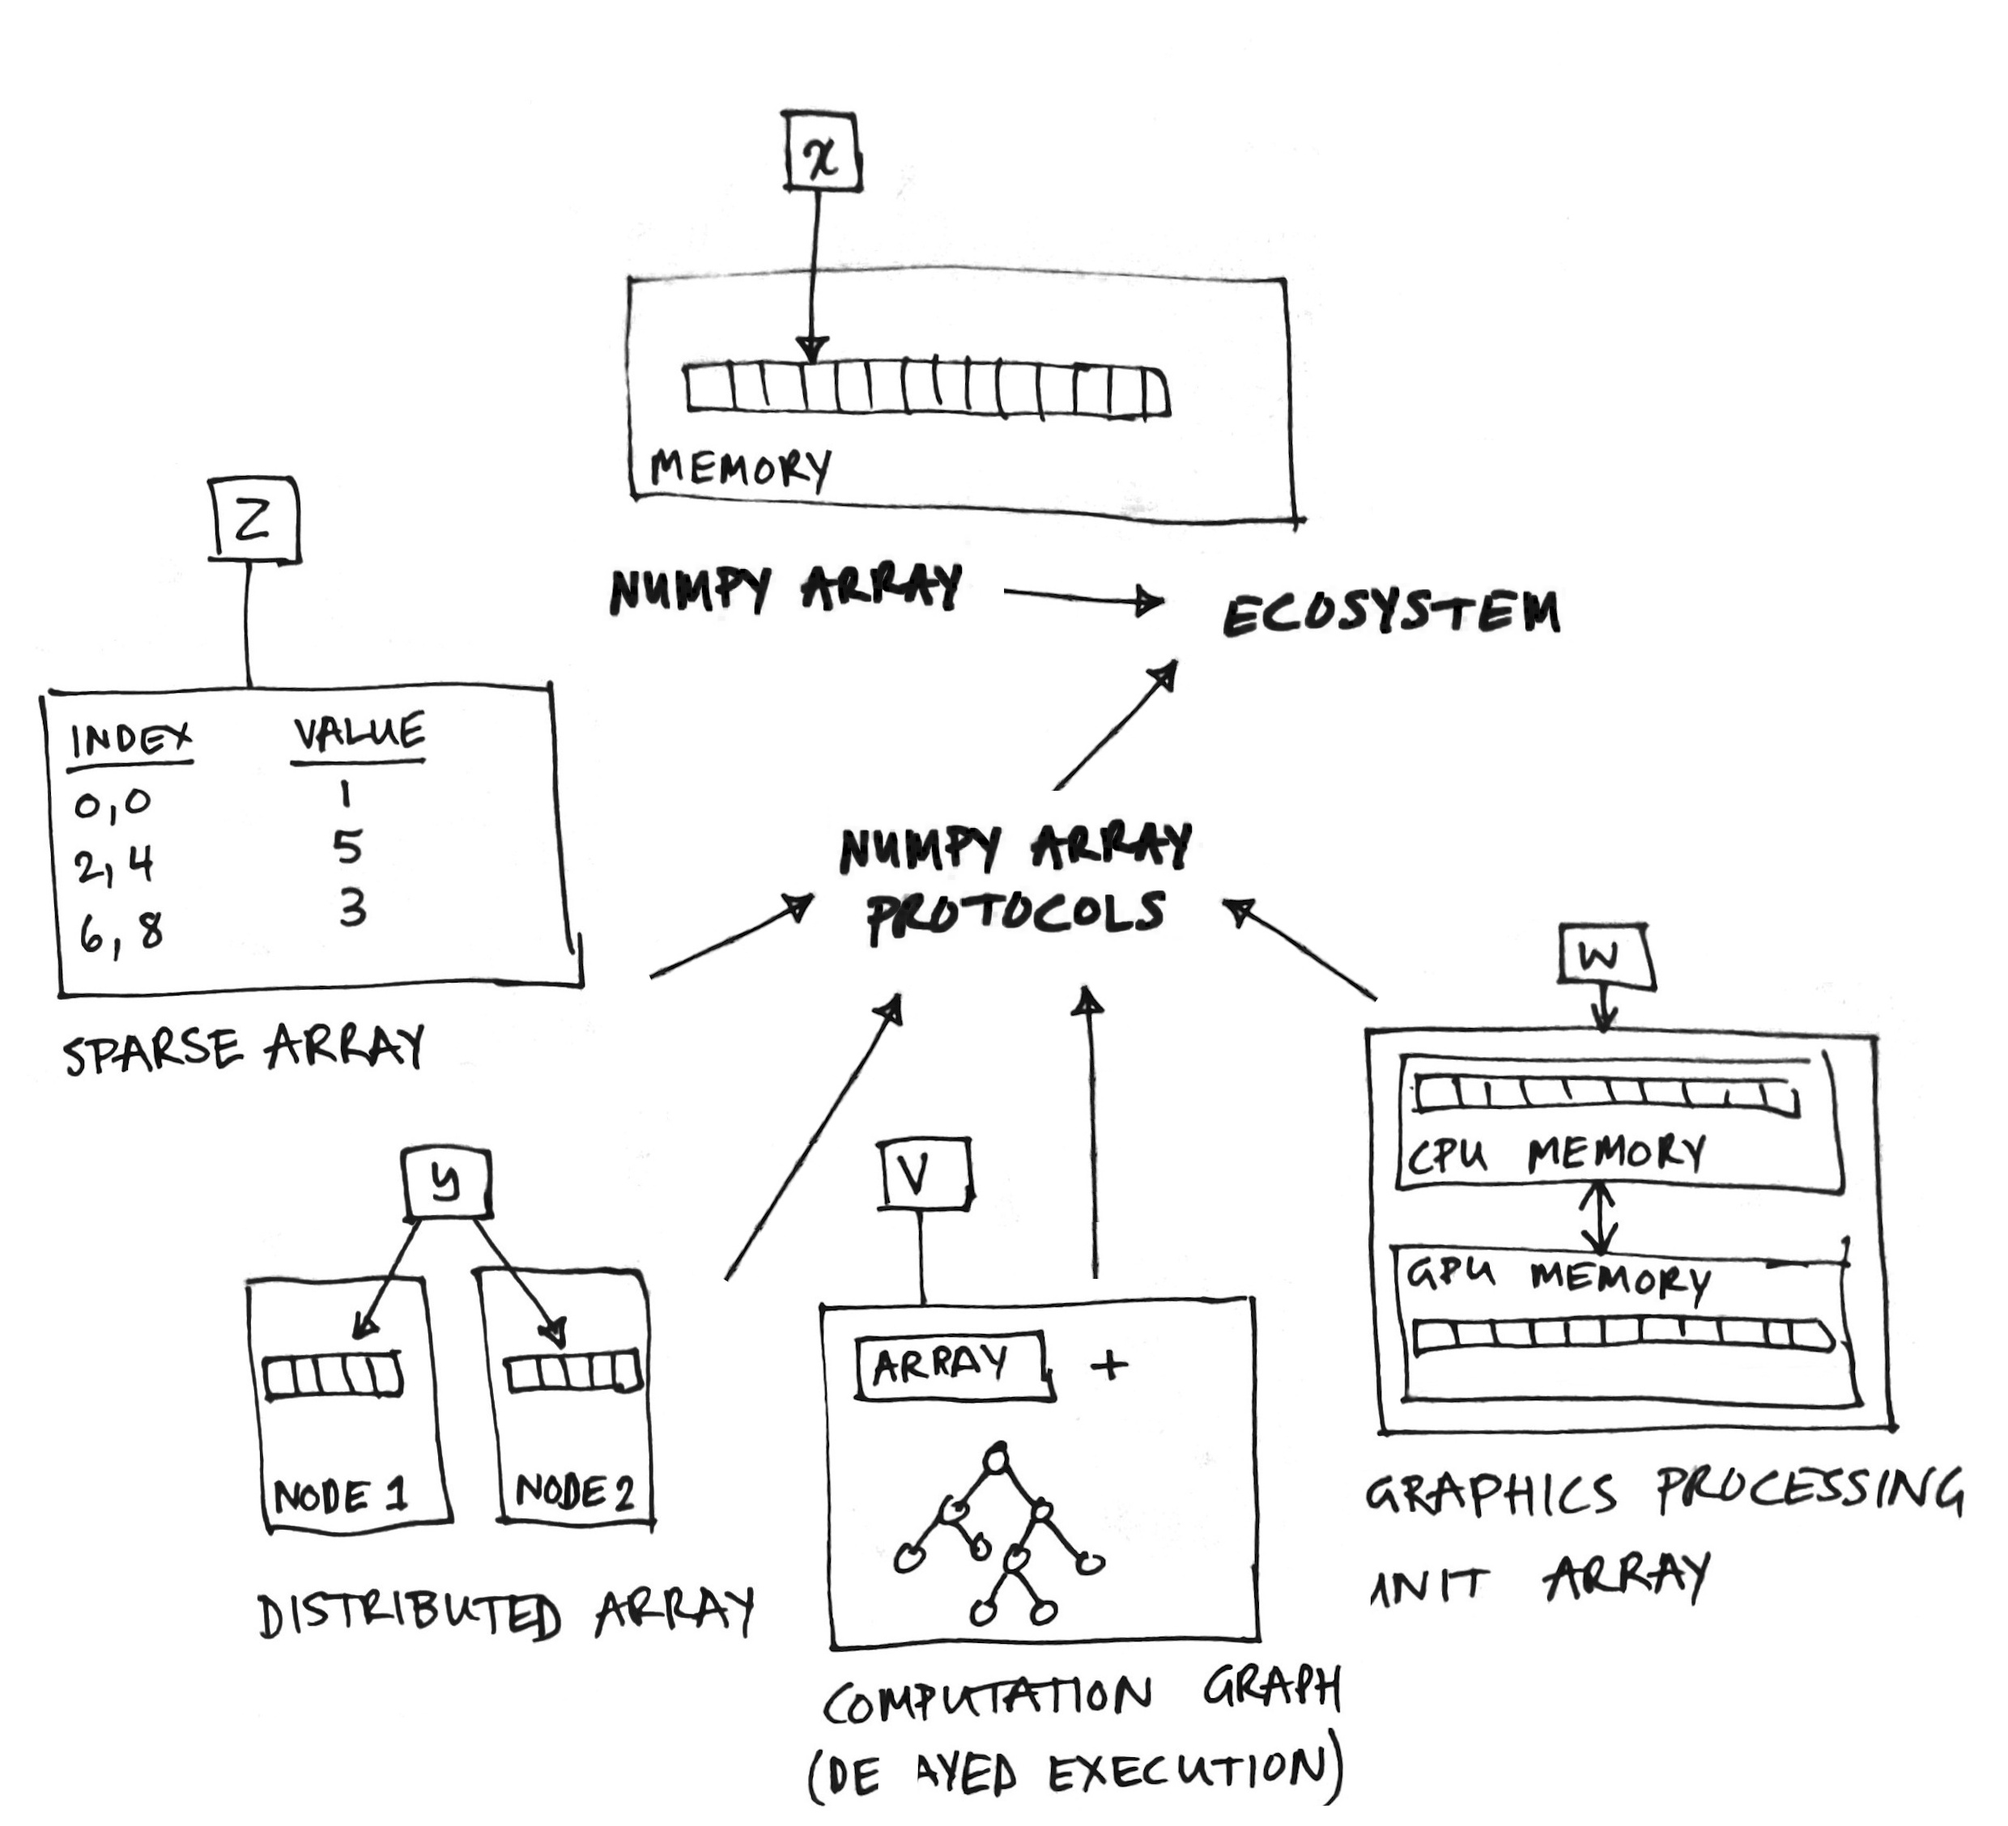
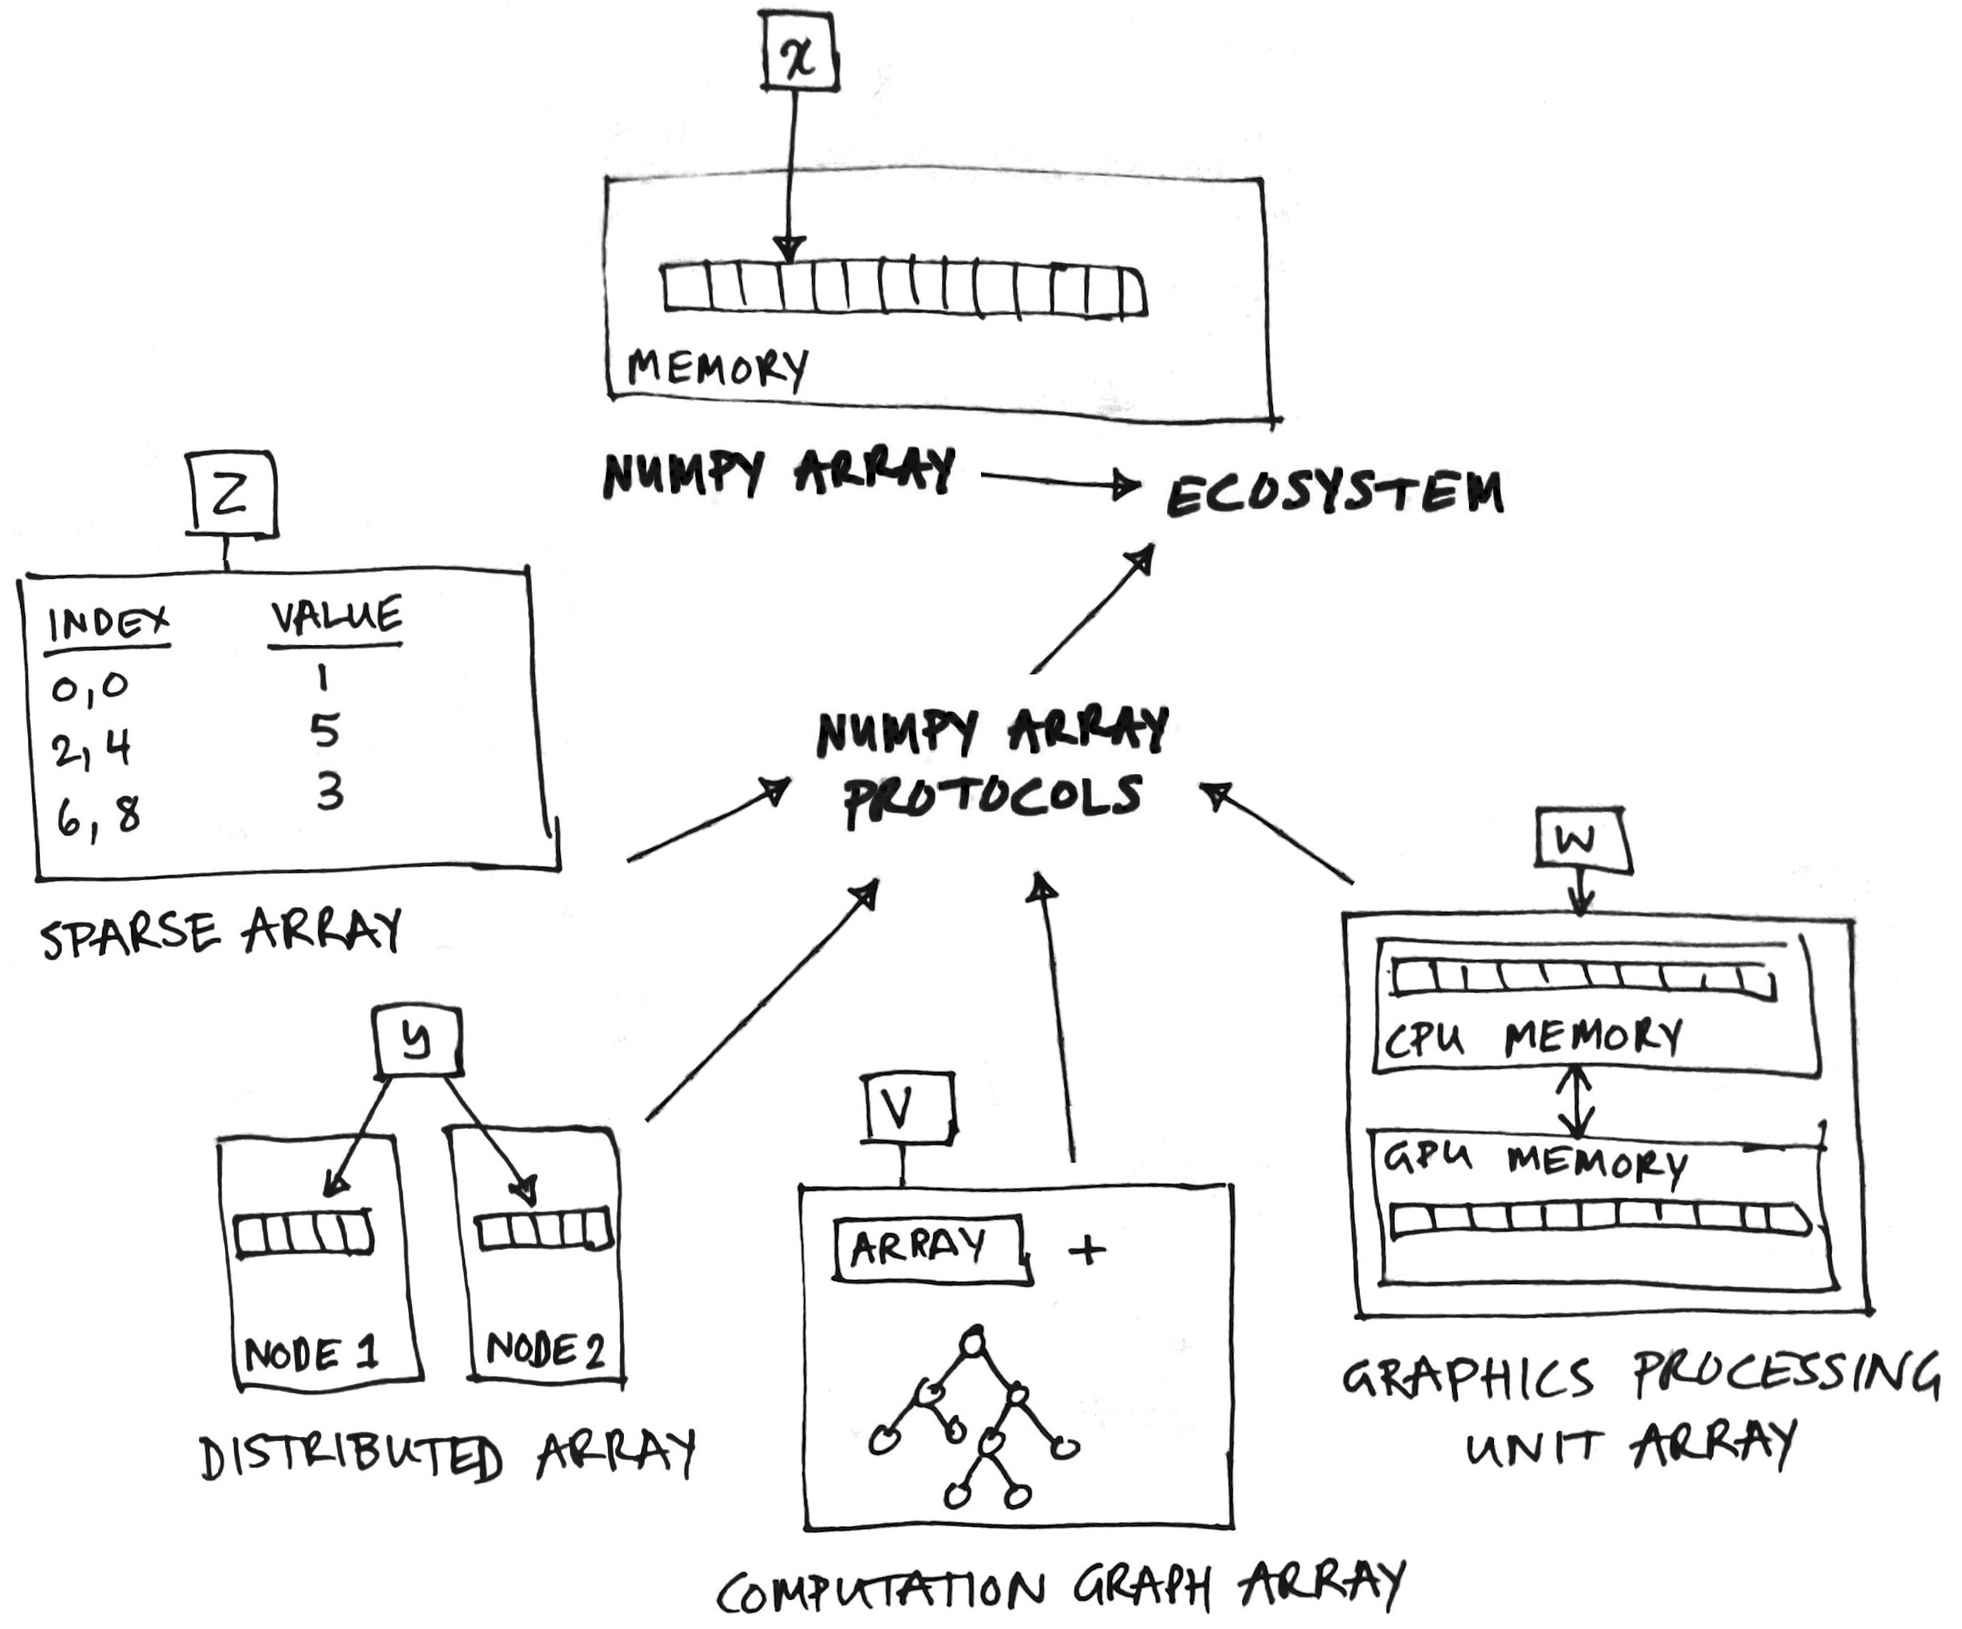
Mention we are community developed

diff --git a/body.tex b/body.tex
@@ -15,7 +15,8 @@ numerical computation including SciPy \cite{virtanen2019scipy},
 Matplotlib \cite{hunter2007matplotlib}, pandas \cite{mckinney-proc-scipy-2010},
 scikit-learn \cite{pedregosa2011scikit}, and
 scikit-image \cite{vanderwalt2014scikit}.
-It consists of an multidimensional array object along with array-aware functions
+It is a community developed, open source library, which provides a
+multidimensional Python array object along with array-aware functions
 that operate on it.
 Because of its inherent simplicity, the NumPy array is
 the {\it de facto} exchange format for array data in Python.
